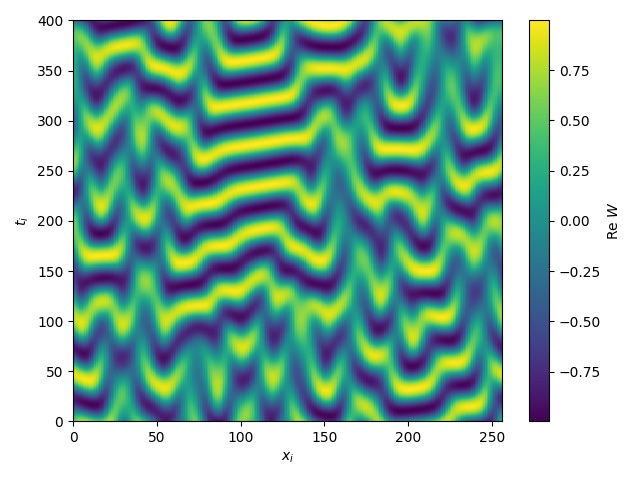
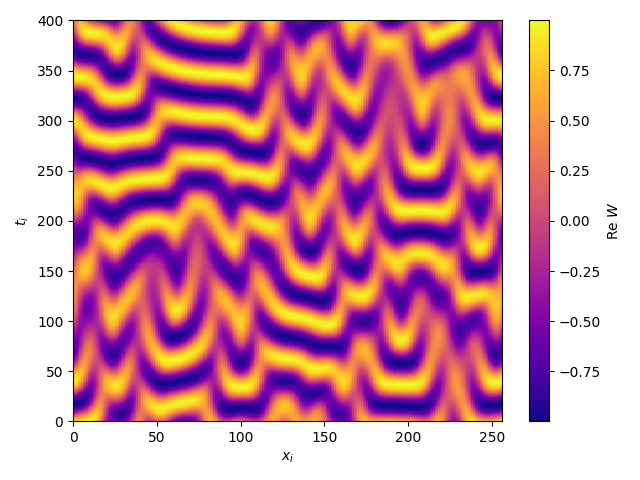
Enhancement: Figures for readme.

diff --git a/example/cgle/run.py b/example/cgle/run.py
@@ -42,7 +42,7 @@ def main(config: ConfigParser):  # pylint: disable-msg=too-many-locals
     # Visualize training data
     fig = plt.figure()
     ax1 = fig.add_subplot(111)
-    pl1 = ax1.pcolor(dataset_train.x_data[::5, 0])
+    pl1 = ax1.pcolor(dataset_train.x_data[::5, 0], cmap='plasma')
     ax1.set_xlabel(r'$x_i$')
     ax1.set_ylabel(r'$t_i$')
     plt.colorbar(pl1, label=r'Re $W$')
@@ -93,15 +93,15 @@ def main(config: ConfigParser):  # pylint: disable-msg=too-many-locals
                                      t_eval=t_eval)
 
     # Visualize training data
-    fig = plt.figure(figsize=(8, 4.8))
+    fig = plt.figure(figsize=(8, 3.6))
     ax1 = fig.add_subplot(121)
-    pl1 = ax1.pcolor(dataset_test.x_data[::5, 0])
+    pl1 = ax1.pcolor(dataset_test.x_data[::5, 0], cmap='plasma')
     ax1.set_xlabel(r'$x_i$')
     ax1.set_ylabel(r'$t_i$')
     ax1.set_title('test data')
     plt.colorbar(pl1, label=r'Re $W$')
     ax2 = fig.add_subplot(122)
-    pl2 = ax2.pcolor(predictions[::5, 0])
+    pl2 = ax2.pcolor(predictions[::5, 0], cmap='plasma')
     ax2.set_xlabel(r'$x_i$')
     ax2.set_ylabel(r'$t_i$')
     ax2.set_title('prediction')
